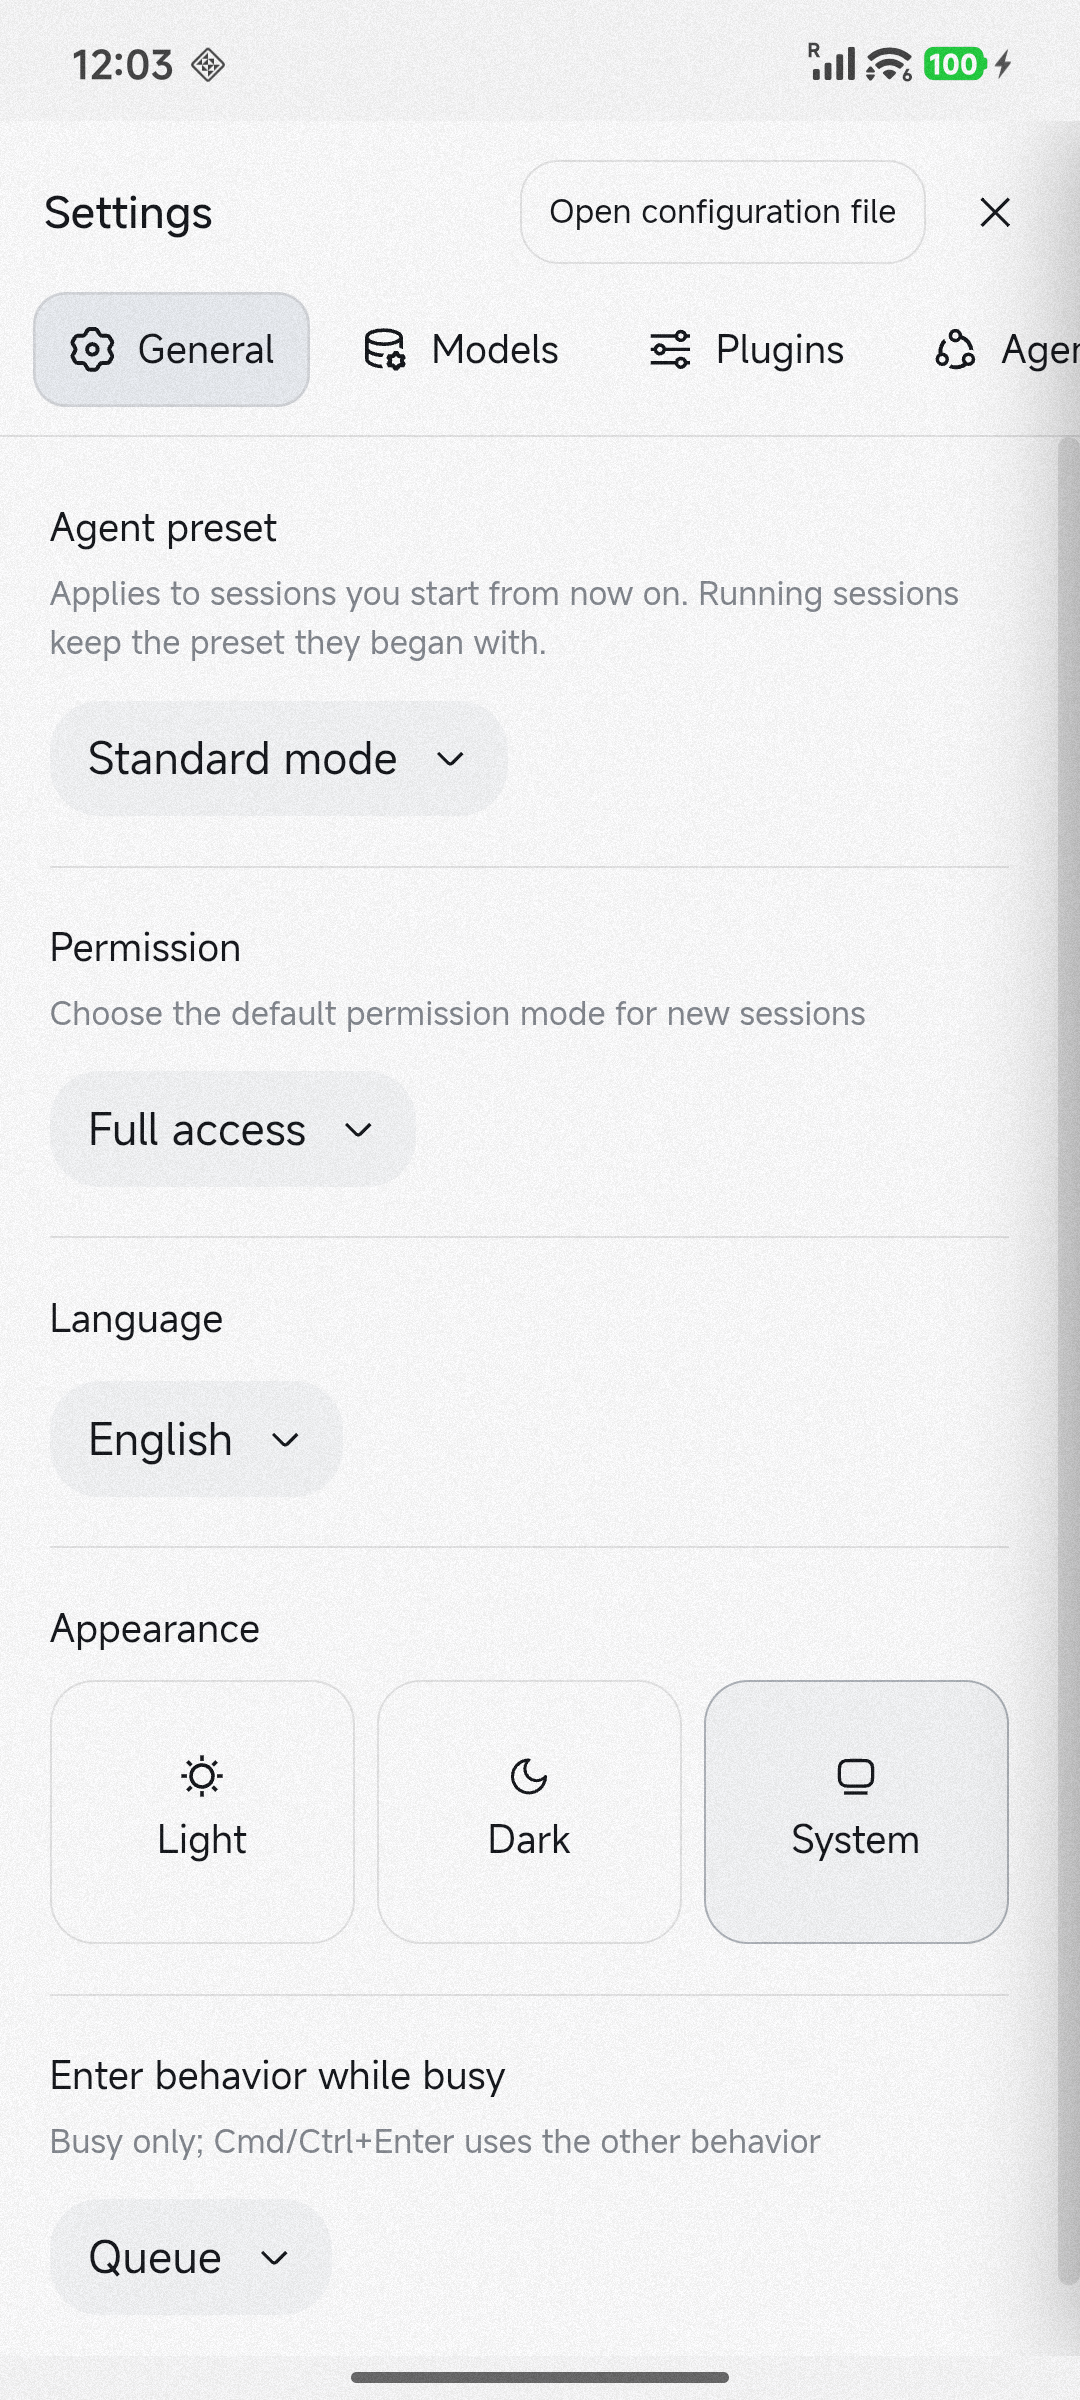
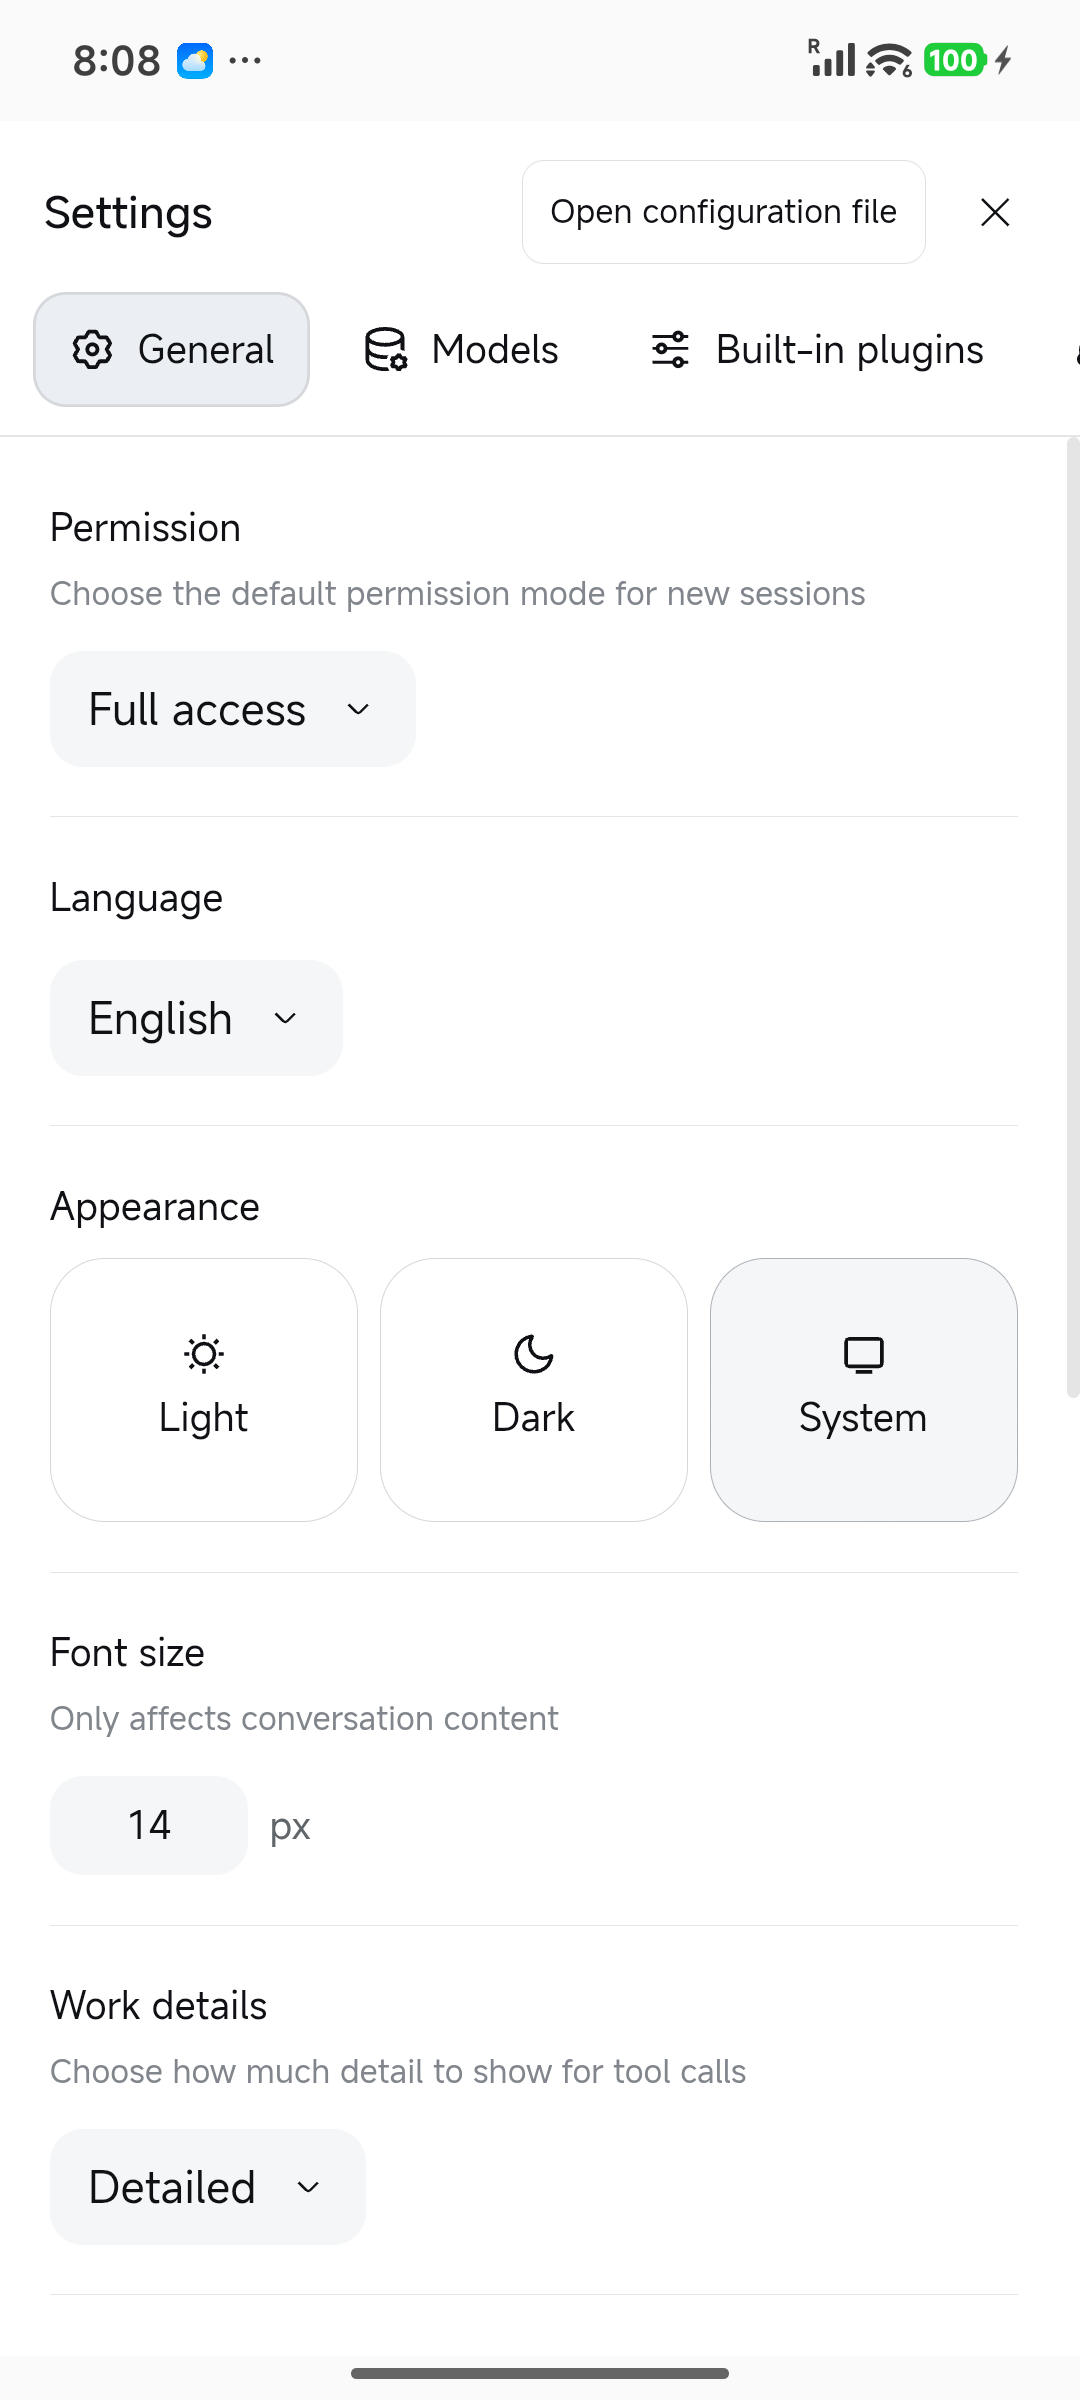
Prepare 0.0.3-beta.1 with updated English screenshots

diff --git a/README.md b/README.md
@@ -27,22 +27,19 @@ image stays on `24.04-1`; proroot integration is owned by this app.
 ## App preview
 
 <p align="center">
-  <img src="Docs/assets/dsh-setup.png" alt="Ubuntu setup with execution mode selection and automatic launch option" width="280" />
+  <img src="Docs/assets/dsh-setup.png" alt="Install the Ubuntu environment" width="260" />
+  <img src="Docs/assets/dsh-web-ui.png" alt="Web UI home" width="260" />
+  <img src="Docs/assets/dsh-settings.png" alt="General settings" width="260" />
 </p>
 
-<p align="center">Ubuntu setup, execution mode selection, and automatic launch.</p>
+<p align="center">Ubuntu setup · Home · General settings</p>
 
 <p align="center">
-  <img src="Docs/assets/dsh-web-ui.png" alt="Home" width="280" />
-  <img src="Docs/assets/dsh-sidebar.png" alt="Sidebar" width="280" />
+  <img src="Docs/assets/dsh-sidebar.png" alt="Left sidebar" width="260" />
+  <img src="Docs/assets/dsh-right-sidebar.png" alt="Right sidebar with workspace files" width="260" />
 </p>
 
-<p align="center">
-  <img src="Docs/assets/dsh-settings.png" alt="General settings" width="280" />
-  <img src="Docs/assets/dsh-models.png" alt="Model settings" width="280" />
-</p>
-
-<p align="center">English Web UI on an ARM64 Android device: home, sidebar, general settings, and model settings.</p>
+<p align="center">Left sidebar · Right sidebar with workspace files</p>
 
 ## Features
 
@@ -68,8 +65,7 @@ Development builds are available under **Artifacts** in successful
 
 On first use, DSH creates a default workspace under `/workspace/deepseek-harness/default-workspace`, stored in the app's private data and shared across execution modes.
 
-Back navigates within the Web UI when history is available; otherwise it sends
-the app to the background. The runtime continues until stopped from the app or notification.
+System Back keeps the Web UI open without navigating away. The runtime continues until stopped from the notification.
 
 To export a file, click its download button in the Web UI, then choose a destination
 in Android’s **Save to** dialog. Files can be saved to Downloads or another document provider.

diff --git a/Docs/README.zh-CN.md b/Docs/README.zh-CN.md
@@ -22,22 +22,19 @@ DSH Mobile 是 [DeepSeek Harness](https://github.com/deepseek-ai/deepseek-harnes
 ## 应用效果
 
 <p align="center">
-  <img src="assets/dsh-setup.png" alt="Ubuntu 引导界面、运行方式选择和自动启动选项" width="280" />
+  <img src="assets/dsh-setup.png" alt="Ubuntu 环境安装界面" width="260" />
+  <img src="assets/dsh-web-ui.png" alt="Web UI 首页" width="260" />
+  <img src="assets/dsh-settings.png" alt="通用设置" width="260" />
 </p>
 
-<p align="center">Ubuntu 引导界面：运行方式选择与自动启动选项。</p>
+<p align="center">Ubuntu 安装 · 首页 · 通用设置（英文界面）</p>
 
 <p align="center">
-  <img src="assets/dsh-web-ui.png" alt="首页" width="280" />
-  <img src="assets/dsh-sidebar.png" alt="侧边栏" width="280" />
+  <img src="assets/dsh-sidebar.png" alt="左侧栏" width="260" />
+  <img src="assets/dsh-right-sidebar.png" alt="右侧栏工作区文件浏览器" width="260" />
 </p>
 
-<p align="center">
-  <img src="assets/dsh-settings.png" alt="通用设置" width="280" />
-  <img src="assets/dsh-models.png" alt="模型设置" width="280" />
-</p>
-
-<p align="center">ARM64 Android 真机上的英文界面：首页、侧边栏、通用设置和模型设置。</p>
+<p align="center">左侧栏 · 右侧栏工作区文件浏览器（英文界面）</p>
 
 ## 功能
 
@@ -62,8 +59,7 @@ DSH Mobile 是 [DeepSeek Harness](https://github.com/deepseek-ai/deepseek-harnes
 
 首次使用时，DSH 会在 `/workspace/deepseek-harness/default-workspace` 创建默认工作区，文件保存在应用私有数据中，并在各运行方式之间共享。
 
-在 Web UI 中按返回键，有浏览历史时返回上一页，否则将应用切换到后台。
-运行时会继续运行，直到通过应用或通知停止。
+Web UI 会消费系统返回操作，保持当前页面和前台状态。运行时可通过通知停止。
 
 点击 Web UI 中的下载按钮后，在 Android 系统“保存到”界面选择位置，即可把文件导出到手机的下载目录或其他文档存储位置。
 
